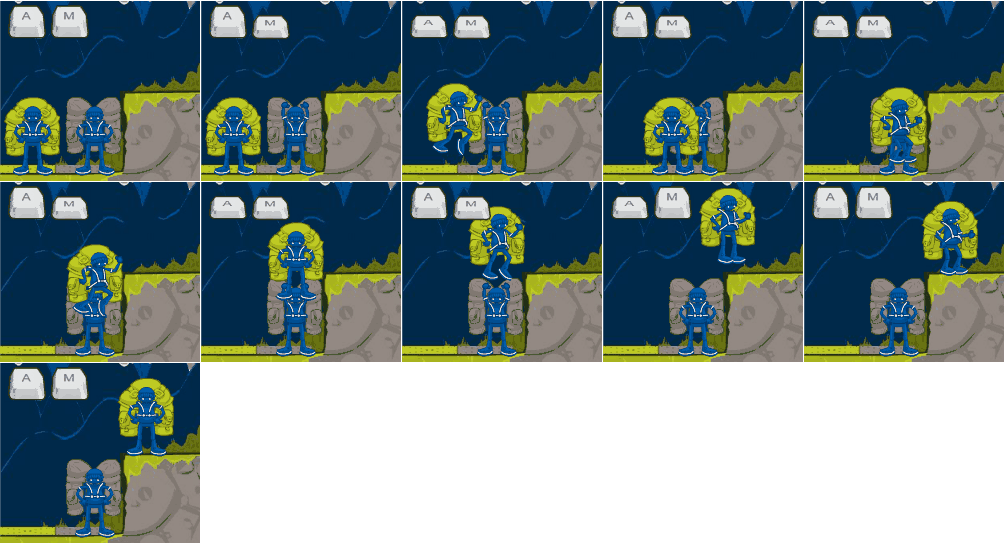
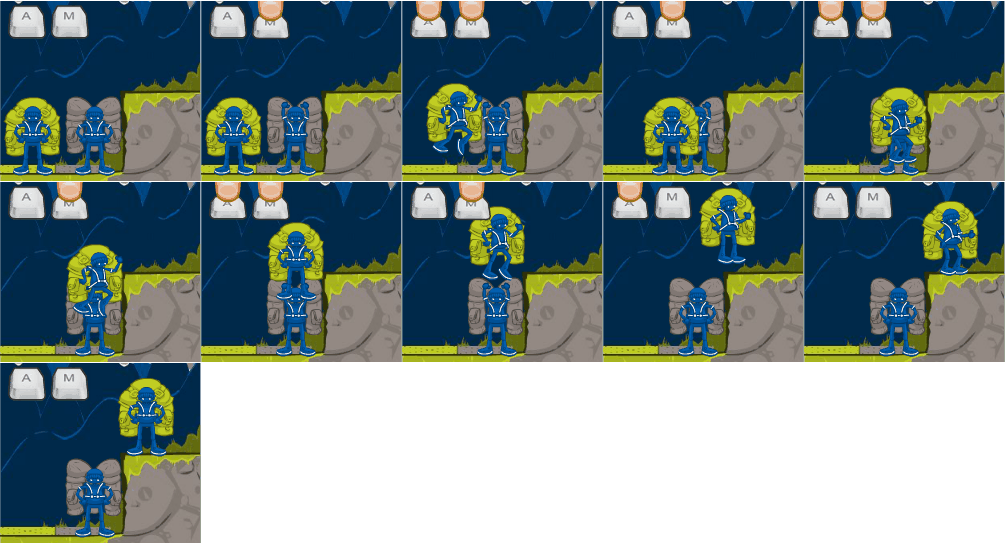
Update Instructions to load different images for touch screens

diff --git a/js/states/Preload.js b/js/states/Preload.js
@@ -48,11 +48,18 @@ Climb.Preload.prototype = {
 		this.load.image('wordmark', 'assets/img/wordmark.png');
 
 		// instructions
-		this.load.image('inst-keys', 'assets/img/keys.png');
-		this.load.image('inst-buttons', 'assets/img/buttons.png');
-		this.load.image('inst-peak', 'assets/img/instructions-peak.png');
-		this.load.spritesheet('instructions1', 'assets/img/instructions1.png', 201, 181, 11); // boosting	
-		this.load.spritesheet('instructions2', 'assets/img/instructions2.png', 201, 181, 11); // rope climb
+		var keysURL = 'assets/img/keys.png',
+			instr1URL = 'assets/img/instructions1.png',
+			instr2URL = 'assets/img/instructions2.png';
+		if(hasTouch){
+			keysURL = 'assets/img/buttons.png';
+			instr1URL = 'assets/img/instructions1-touch.png',
+			instr2URL = 'assets/img/instructions2-touch.png';
+		}
+		this.load.image('inst-keys', keysURL); // inputs
+		this.load.spritesheet('instructions1', instr1URL, 201, 181, 11); // boosting	
+		this.load.spritesheet('instructions2', instr2URL, 201, 181, 11); // rope climb
+		this.load.image('inst-peak', 'assets/img/instructions-peak.png'); // win
 
 		// icons 
 		this.load.image('icon-walk-right', 'assets/img/i/walk-right.png');

diff --git a/js/states/Instructions.js b/js/states/Instructions.js
@@ -92,10 +92,8 @@ function createPane1() {
 
 	var pane = Climb.game.add.group();
 
-	// image
-	var img = "inst-keys";
-	if (hasTouch) img = "inst-buttons";
-	var keys = Climb.game.add.sprite(Climb.game.width / 2, Climb.game.height / 2 - 0, img);
+	// image	
+	var keys = Climb.game.add.sprite(Climb.game.width / 2, Climb.game.height / 2 - 0, "inst-keys");
 	keys.anchor.set(0.5);
 	keys.scale.set(1.5);
 	pane.add(keys);
